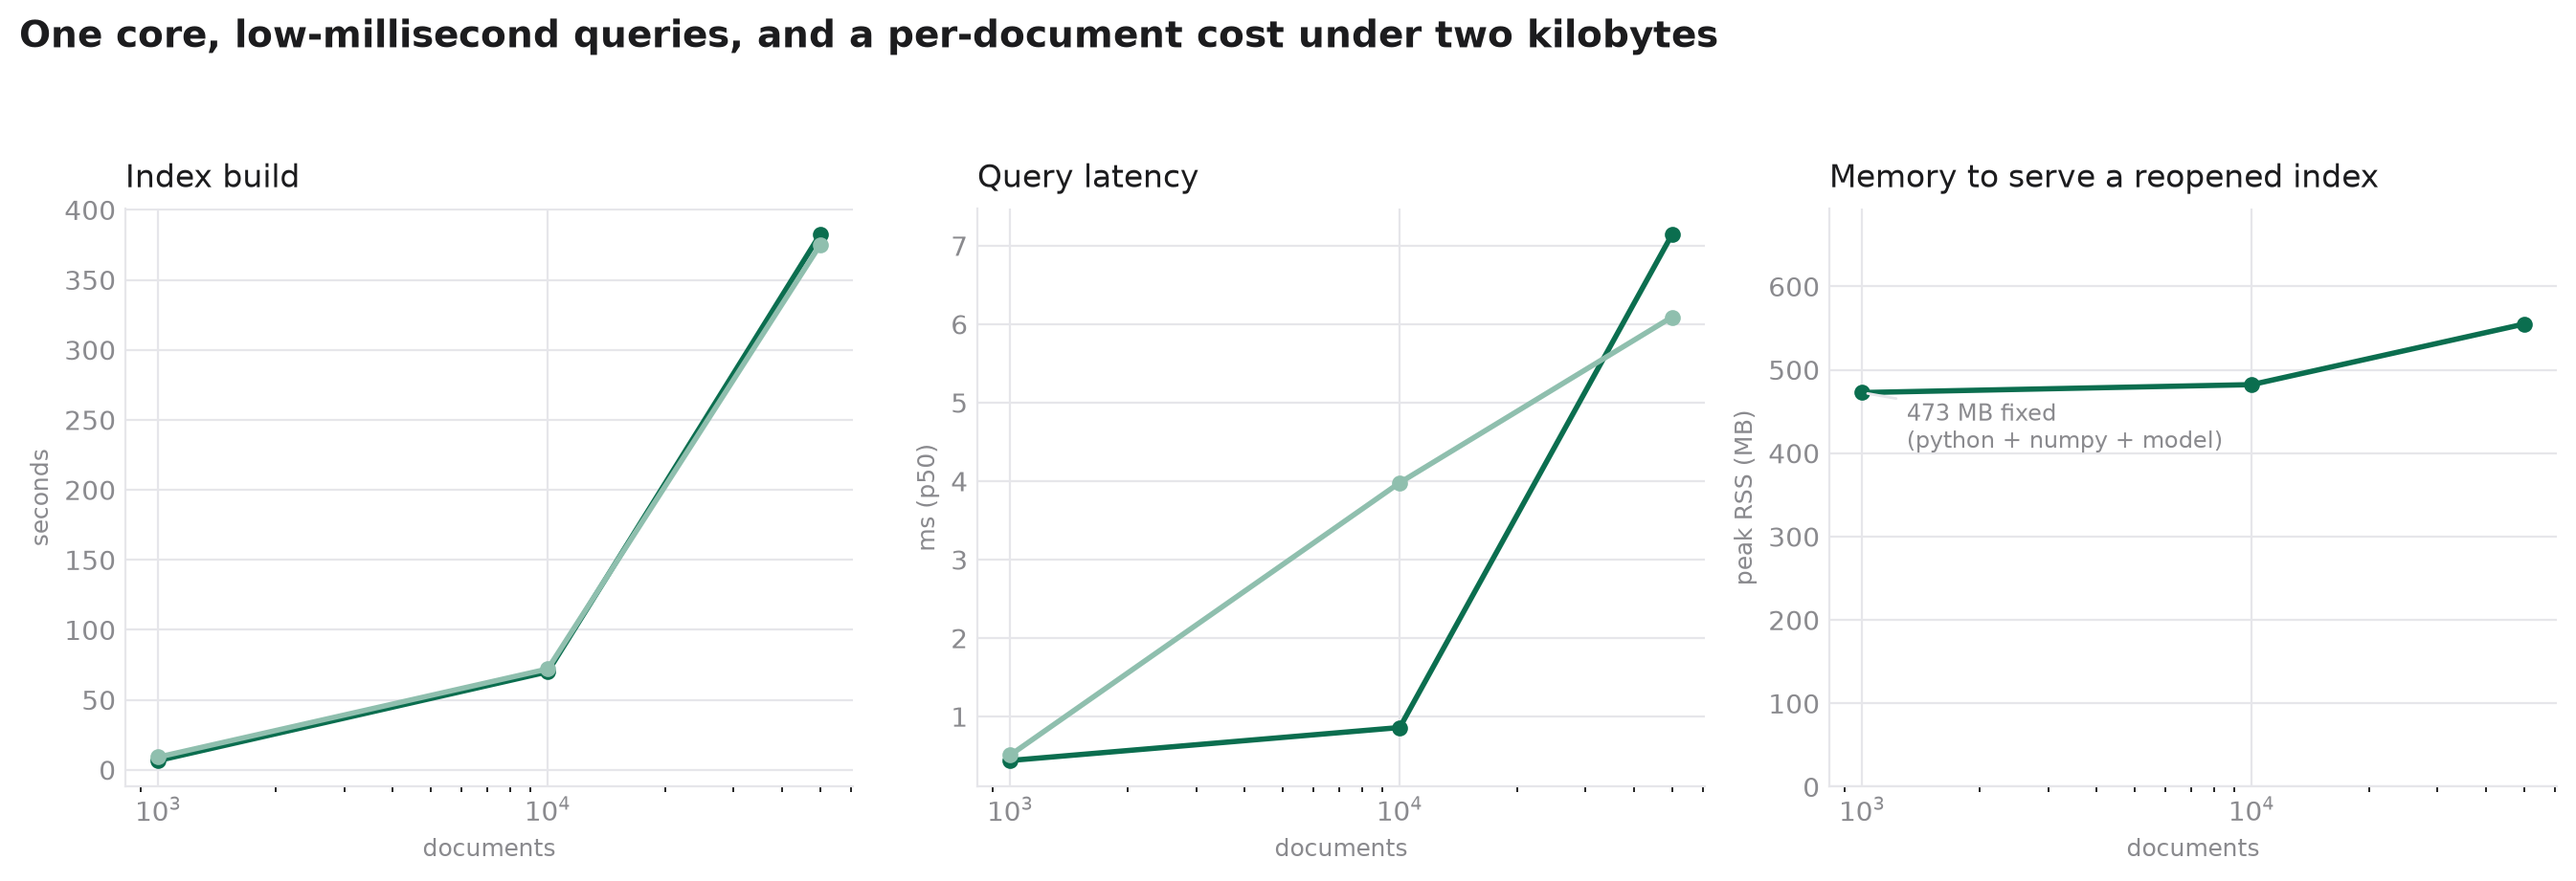
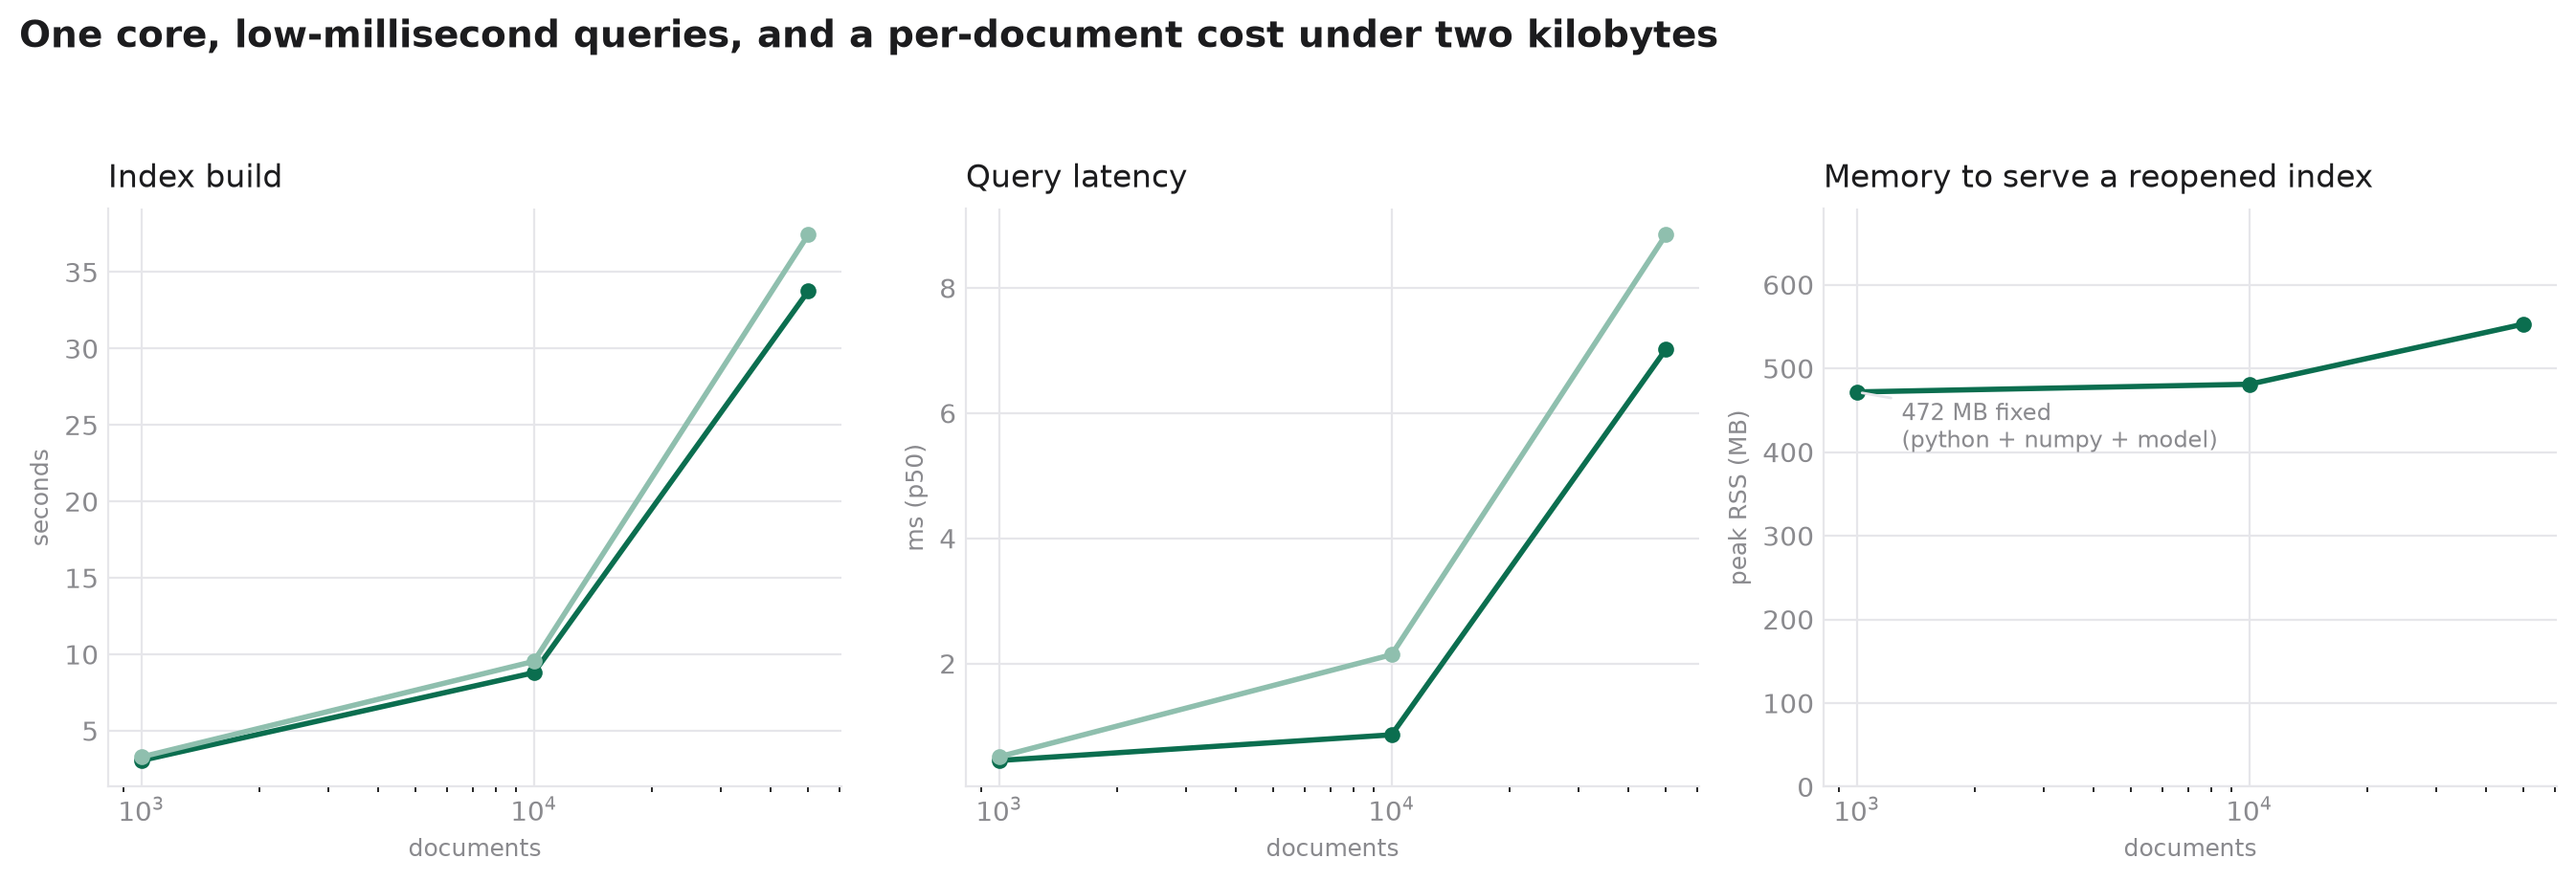
Parallelise index build: ~10x faster (130 -> 1480 docs/s)
Index build is per-document, so chunking and embedding now run across a forked
process pool with a thread cap per worker. Two changes, both measured:

1. BLAS thread cap. OpenBLAS sizes its thread team from the core count, but a
   per-document chunking matmul (a few hundred rows) cannot amortise it: 2000
   documents cost 7.8s on 16 threads against 2.1s on one. Every worker now runs
   with one BLAS thread via threadpoolctl, which is now a dependency.

2. Process pool. Chunk+embed and BM25 tokenisation are mapped over documents.
   Below 64 documents the pool costs more than it saves, so small batches stay
   sequential.

Measured on 8 processes, one core per worker:
  documents   build before   build after
      1,000          6.7 s          3.1 s
     10,000         70.0 s          8.8 s
     50,000        382.0 s         33.8 s

Query latency and memory are unchanged (7.0 ms p50 and 553 MB to serve a
50,000-document index).

tests/test_parallel.py asserts the parallel path is byte-identical to the
sequential one: same slots, same chunks, same rankings, including across
incremental add_documents calls and on the persistent path.

Note: forking a process that already has BLAS threads draws a Python 3.12
DeprecationWarning. It is documented, and workers=1 forces the sequential path
where forking is unwelcome. 95 tests.

diff --git a/arara_rag/pipeline.py b/arara_rag/pipeline.py
@@ -12,10 +12,13 @@ reuse, because a RAG index is read far more often than it is written.
 
 from __future__ import annotations
 
+import multiprocessing as mp
+import os
 import shutil
 import tempfile
 import time
 from collections.abc import Mapping
+from concurrent.futures import ProcessPoolExecutor
 from pathlib import Path
 from typing import Literal
 
@@ -30,6 +33,65 @@ from .text import Tokenizer
 from .types import Chunk, Hit
 
 SearchMode = Literal["dense", "lexical", "hybrid", "hybrid_cxm25"]
+
+# Chunking and embedding dominate index build, and both are per-document, so
+# they parallelise across processes almost linearly. Below this many documents
+# the pool costs more than it saves.
+PARALLEL_MIN_DOCS = 64
+DEFAULT_MAX_WORKERS = 8
+
+# Forked children inherit these; nothing is pickled except the work items and
+# the results. The catalog and vector store are never touched by a child.
+_WORKER_STATE: dict = {}
+
+
+def _limit_threads():
+    """Cap BLAS to one thread, if threadpoolctl is available.
+
+    OpenBLAS sizes its thread team from the core count, but a per-document
+    matmul (a few hundred rows) is far too small to amortise that: 2000
+    documents cost 7.8 s on 16 threads against 2.1 s on one. Inside a process
+    pool the oversubscription compounds.
+    """
+    try:
+        from threadpoolctl import threadpool_limits
+    except ImportError:  # pragma: no cover - optional
+        return None
+    return threadpool_limits(limits=1)
+
+
+def _worker_prepare(item):
+    """Chunk and embed one document. Must stay module level and picklable."""
+    doc_id, canonical = item
+    chunker = _WORKER_STATE["chunker"]
+    encoder = _WORKER_STATE["encoder"]
+    limit = _limit_threads()
+    if limit is None:
+        chunks = chunker.split(doc_id, canonical)
+        texts = [c.text for c in chunks]
+        vectors = encoder.encode(texts) if texts else _empty(encoder.dim)
+        return chunks, vectors
+    with limit:
+        chunks = chunker.split(doc_id, canonical)
+        texts = [c.text for c in chunks]
+        vectors = encoder.encode(texts) if texts else _empty(encoder.dim)
+    return chunks, vectors
+
+
+def _worker_tokenize(batch):
+    """Tokenise a batch of ``(slot, text)``. Module level so it can be mapped."""
+    tokenizer = _WORKER_STATE["tokenizer"]
+    limit = _limit_threads()
+    if limit is None:
+        return [(slot, tokenizer.terms(text)) for slot, text in batch]
+    with limit:
+        return [(slot, tokenizer.terms(text)) for slot, text in batch]
+
+
+def _empty(dim):
+    import numpy as _np
+
+    return _np.empty((0, dim), dtype=_np.float32)
 
 
 def _normalize_input(docs) -> list[tuple[str, str]]:
@@ -78,6 +140,7 @@ class Arara:
         lang: str = "pt",
         cache_dir: str | None = None,
         encoder: DenseEncoder | None = None,
+        workers: int | None = None,
     ) -> None:
         self.path = Path(path) if path is not None else None
         self.dense_model = dense_model
@@ -93,6 +156,8 @@ class Arara:
         self.tokenizer = Tokenizer(lang)
         self._encoder = encoder
         self._cache_dir = cache_dir
+        # None = pick automatically; 1 forces the sequential path.
+        self.workers = workers
 
         self._catalog: Catalog | MemCatalog = Catalog(self.path) if self.path else MemCatalog()
         self._vectors: VectorStore | MemVectorStore | None = None
@@ -200,8 +265,11 @@ class Arara:
             return 0
 
         t0 = time.perf_counter()
-        new_chunks: list[Chunk] = []
-        new_docs: list[int] = []
+        # Documents are registered in the parent: the catalog is not written
+        # from forked children.
+        doc_ids: list[str] = []
+        canonicals: list[str] = []
+        doc_indices: list[int] = []
         for doc_id, text in items:
             if self._catalog.has_document(doc_id):
                 self.delete_document(doc_id)
@@ -215,17 +283,28 @@ class Arara:
                 self._doc_index[doc_id] = di
                 self._doc_ids.append(doc_id)
                 self._doc_alive.append(True)
-            for chunk in self.chunker.split(doc_id, canonical):
-                new_chunks.append(chunk)
-                new_docs.append(di)
-        self.timings["chunk_s"] = time.perf_counter() - t0
+            doc_ids.append(doc_id)
+            canonicals.append(canonical)
+            doc_indices.append(di)
+
+        prepared = self._prepare_documents(doc_ids, canonicals)
+        self.timings["prepare_s"] = time.perf_counter() - t0
+
+        new_chunks: list[Chunk] = []
+        new_docs: list[int] = []
+        blocks: list[np.ndarray] = []
+        for (chunks, vectors), di in zip(prepared, doc_indices):
+            if not len(chunks):
+                continue
+            new_chunks.extend(chunks)
+            new_docs.extend([di] * len(chunks))
+            blocks.append(vectors)
         if not new_chunks:
             self.flush()
             return 0
 
         t0 = time.perf_counter()
-        vectors = self.encoder.encode([c.text for c in new_chunks], show_progress=show_progress)
-        self.timings["encode_s"] = time.perf_counter() - t0
+        vectors = np.concatenate(blocks, axis=0)
         if self._vectors is None:
             self._vectors = (
                 VectorStore(self.path, dim=vectors.shape[1])
@@ -247,6 +326,36 @@ class Arara:
         self.timings["bookkeeping_s"] = time.perf_counter() - t0
         self.flush()
         return len(new_chunks)
+
+    def _effective_workers(self, n_docs: int) -> int:
+        """How many processes to use for this batch."""
+        if self.workers is not None:
+            return max(1, int(self.workers))
+        if n_docs < PARALLEL_MIN_DOCS:
+            return 1
+        if "fork" not in mp.get_all_start_methods():
+            # A spawned child would have to re-import numpy and reload the
+            # weights in every worker; not worth it implicitly.
+            return 1
+        return max(1, min(os.cpu_count() or 1, DEFAULT_MAX_WORKERS))
+
+    def _prepare_documents(self, doc_ids, canonicals):
+        """Chunk and embed documents, in order, optionally across processes."""
+        jobs = list(zip(doc_ids, canonicals))
+        workers = self._effective_workers(len(jobs))
+        _WORKER_STATE["chunker"] = self.chunker
+        _WORKER_STATE["encoder"] = self.encoder
+        self.timings["workers"] = float(workers)
+        if workers <= 1:
+            return [_worker_prepare(job) for job in jobs]
+        chunksize = max(1, len(jobs) // (workers * 8))
+        ctx = mp.get_context("fork")
+        try:
+            with ProcessPoolExecutor(max_workers=workers, mp_context=ctx) as pool:
+                return list(pool.map(_worker_prepare, jobs, chunksize=chunksize))
+        except (OSError, RuntimeError):  # pragma: no cover - sandboxed hosts
+            # A pool that cannot start must not fail the ingest.
+            return [_worker_prepare(job) for job in jobs]
 
     def _place_slots(self, chunks, doc_idx, slots: np.ndarray) -> None:
         need = int(slots.max(initial=-1)) + 1
@@ -293,9 +402,11 @@ class Arara:
         shift every id after the first deletion.
         """
         t0 = time.perf_counter()
-        idx = BM25Index()
         n_slots = int(self._slot_doc.size)
-        terms: list[list[str]] = [[] for _ in range(n_slots)]
+
+        # Read the chunk text in the parent (the catalog is not shared with
+        # children), then tokenise; stemming is per-chunk, so it parallelises.
+        work: list[tuple[int, str]] = []
         for doc_id in self._doc_ids:
             if not self._doc_alive[self._doc_index[doc_id]]:
                 continue
@@ -304,7 +415,28 @@ class Arara:
             text = self._catalog.text_of(doc_id)
             for r in sorted(self._catalog.chunks_of(doc_id), key=lambda r: r.start):
                 if 0 <= r.slot < n_slots:
-                    terms[r.slot] = self.tokenizer.terms(text[r.start : r.end])
+                    work.append((r.slot, text[r.start : r.end]))
+
+        terms: list[list[str]] = [[] for _ in range(n_slots)]
+        workers = self._effective_workers(len(work))
+        _WORKER_STATE["tokenizer"] = self.tokenizer
+        if workers <= 1 or len(work) < PARALLEL_MIN_DOCS:
+            for slot, tok in _worker_tokenize(work):
+                terms[slot] = tok
+        else:
+            batches = [work[i : i + 512] for i in range(0, len(work), 512)]
+            try:
+                with ProcessPoolExecutor(
+                    max_workers=min(workers, len(batches)), mp_context=mp.get_context("fork")
+                ) as pool:
+                    for part in pool.map(_worker_tokenize, batches):
+                        for slot, tok in part:
+                            terms[slot] = tok
+            except (OSError, RuntimeError):  # pragma: no cover - sandboxed hosts
+                for slot, tok in _worker_tokenize(work):
+                    terms[slot] = tok
+
+        idx = BM25Index()
         idx.add(terms)
         idx.finalize()
         self.timings["lexical_s"] = time.perf_counter() - t0

diff --git a/tests/test_parallel.py b/tests/test_parallel.py
@@ -1,0 +1,99 @@
+"""Indexing must be deterministic in the number of workers.
+
+Chunking and embedding run across processes to make index build fast. That is
+only acceptable if the result is byte-identical to the sequential path, so these
+tests compare the two directly rather than trusting the pool.
+"""
+
+from __future__ import annotations
+
+import numpy as np
+import pytest
+
+from arara_rag import Arara
+from arara_rag.pipeline import PARALLEL_MIN_DOCS
+
+SENTENCES = [
+    "A alíquota do imposto de renda é progressiva e varia conforme a faixa.",
+    "O licenciamento ambiental é um instrumento preventivo da política nacional.",
+    "A CONTRATADA obriga-se a manter sigilo sobre as informações a que tiver acesso.",
+    "O prazo para interposição de recurso é de quinze dias úteis contados da intimação.",
+    "Compete ao órgão ambiental estadual o licenciamento de impacto regional.",
+]
+
+
+def make_docs(n: int) -> dict[str, str]:
+    rng = np.random.default_rng(0)
+    out = {}
+    for i in range(n):
+        body = " ".join(
+            str(SENTENCES[j]) for j in rng.integers(0, len(SENTENCES), size=int(rng.integers(2, 6)))
+        )
+        out[f"doc{i:04d}"] = f"Documento {i}.\n\n{body}"
+    return out
+
+
+def assert_same_index(a: Arara, b: Arara) -> None:
+    assert a.n_chunks == b.n_chunks
+    assert len(a) == len(b)
+    assert a._doc_ids == b._doc_ids
+    assert np.array_equal(np.asarray(a._slot_doc), np.asarray(b._slot_doc))
+    assert np.array_equal(np.asarray(a._slot_start), np.asarray(b._slot_start))
+    assert np.array_equal(np.asarray(a._slot_end), np.asarray(b._slot_end))
+    for query in ["imposto de renda", "licenciamento ambiental", "prazo de recurso"]:
+        for mode in ("dense", "lexical", "hybrid"):
+            assert [h.doc_id for h in a.search(query, top_k=10, mode=mode)] == [
+                h.doc_id for h in b.search(query, top_k=10, mode=mode)
+            ], f"{query} / {mode}"
+
+
+@pytest.mark.parametrize("persistent", [False, True])
+def test_workers_produce_the_same_index(tmp_path, persistent: bool) -> None:
+    docs = make_docs(PARALLEL_MIN_DOCS * 2)
+    seq = Arara(workers=1, path=(tmp_path / "seq") if persistent else None)
+    par = Arara(workers=4, path=(tmp_path / "par") if persistent else None)
+    seq.add_documents(docs)
+    par.add_documents(docs)
+    seq.finalize()
+    par.finalize()
+    assert_same_index(seq, par)
+    assert par.stats()["timings"]["workers"] == 4.0
+    assert seq.stats()["timings"]["workers"] == 1.0
+    seq.close()
+    par.close()
+
+
+def test_small_batches_stay_sequential() -> None:
+    """Below the threshold a pool costs more than it saves."""
+    a = Arara()
+    assert a._effective_workers(4) == 1
+    assert a._effective_workers(PARALLEL_MIN_DOCS + 1) >= 1
+
+
+def test_workers_one_is_forced_sequential() -> None:
+    a = Arara(workers=1)
+    assert a._effective_workers(10_000) == 1
+
+
+def test_explicit_worker_count_is_honoured() -> None:
+    a = Arara(workers=3)
+    assert a._effective_workers(10_000) == 3
+
+
+def test_incremental_adds_match_a_single_batch(tmp_path) -> None:
+    """Parallel batches must not change slot assignment across calls."""
+    docs = make_docs(PARALLEL_MIN_DOCS + 20)
+    half = len(docs) // 2
+    first = dict(list(docs.items())[:half])
+    second = dict(list(docs.items())[half:])
+
+    batched = Arara(workers=4)
+    batched.add_documents(docs)
+    batched.finalize()
+
+    split = Arara(workers=4)
+    split.add_documents(first)
+    split.add_documents(second)
+    split.finalize()
+
+    assert_same_index(batched, split)

diff --git a/README.md b/README.md
@@ -42,11 +42,13 @@ One CPU core, no GPU. Measured end to end with `python -m bench.profile`.
 
 | documents | index build | query p50 | query p95 | index size | peak RSS to serve |
 |---|---|---|---|---|---|
-| 1,000 | 6.7 s | **0.44 ms** | 0.48 ms | 1.8 MB | 473 MB |
-| 10,000 | 70 s | **0.86 ms** | 4.2 ms | 18 MB | 482 MB |
-| 50,000 | 382 s | **7.1 ms** | 8.3 ms | 91 MB | 555 MB |
+| 1,000 | 3.1 s | **0.45 ms** | 0.54 ms | 1.8 MB | 472 MB |
+| 10,000 | 8.8 s | **0.86 ms** | 6.8 ms | 18 MB | 481 MB |
+| 50,000 | 33.8 s | **7.0 ms** | 8.0 ms | 91 MB | 553 MB |
 
-- **~130–150 documents/second** to chunk, embed, tokenise and index.
+- **~1,300–1,500 documents/second** to chunk, embed, tokenise and index —
+  chunking and embedding are per-document, so they run across processes.
+  A single process manages ~300/second.
 - **~1.8 KB per document** of index: 1.5 KB of vectors plus BM25 postings.
 - Query latency scales with corpus size because both retrievers score the whole
   corpus per query — that is what makes the ranking exact rather than
@@ -186,6 +188,9 @@ space/          Gradio demo
 - **Per-chunk bookkeeping stays resident** (16 bytes/chunk); vectors, text and
   metadata do not.
 - **CXM25 reranking is ~71 µs/document**, so it runs over a candidate set.
+- **Index build forks worker processes** to parallelise chunking and embedding.
+  Set `workers=1` where forking is unsafe or unavailable; the result is
+  byte-identical, only slower.
 
 ## License
 
